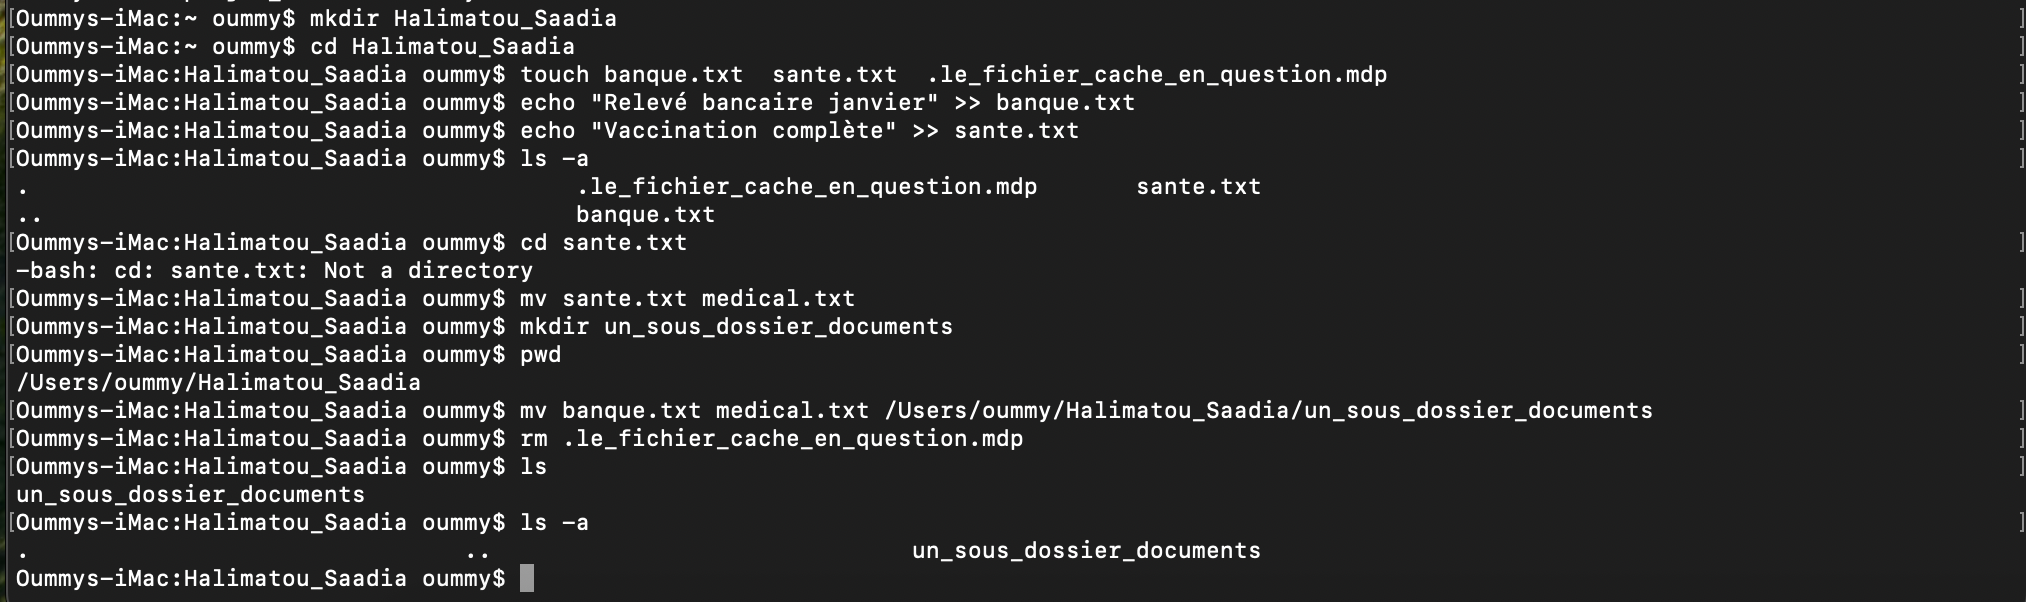
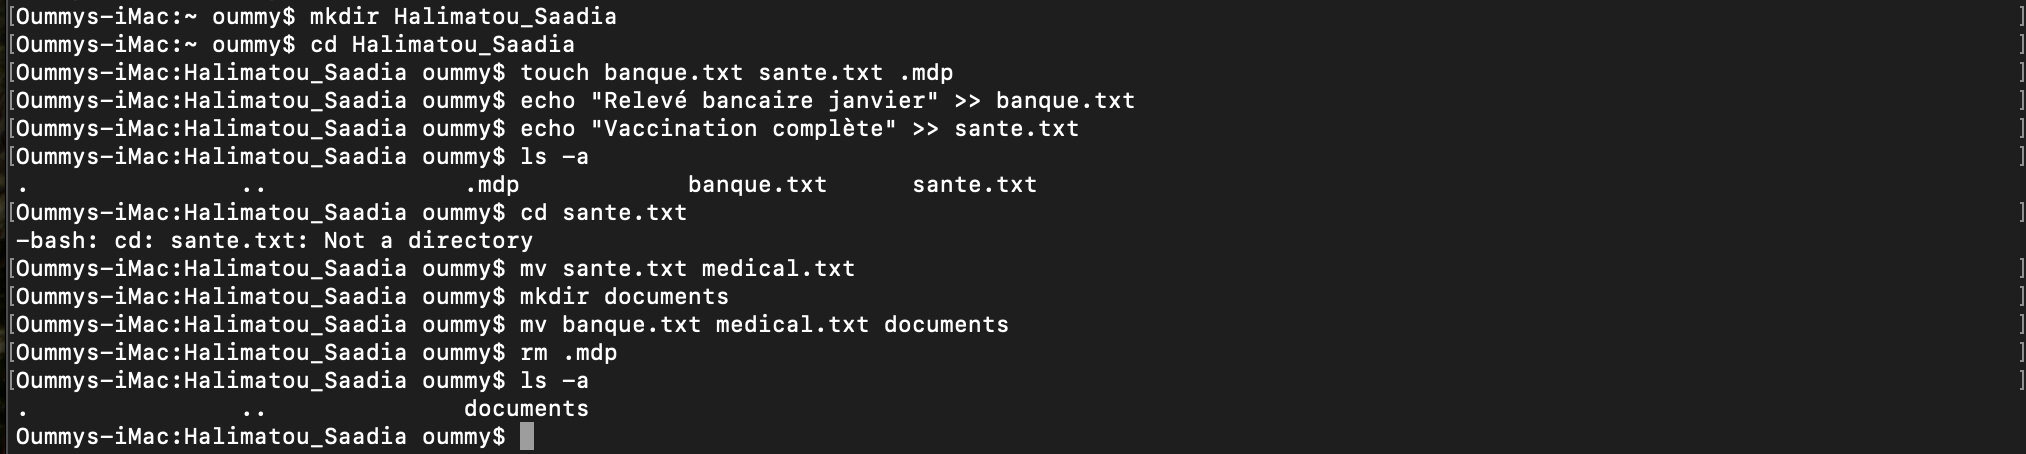
correction sur les evaluation

diff --git a/solutions/exercice6_correction.md b/solutions/exercice6_correction.md
@@ -8,7 +8,7 @@ Syntaxe: ```mkdir nom_du_dossier```
 ``` cd ``` : Pour Aller d'un repertoire à un autre, je l'ai utilisé pour aller de mon repertoir personnel au dossier **Halimatou_Saadia**.
 Syntaxe: ```cd nom_du_repertoir```
 
-```touch``` : Pour créer un ficher, je l'ai utilisé pour créer le fichier texte **banque.txt** **sante.txt** et le ficher caché **.le_fichier_caché_en_question.mdp**.
+```touch``` : Pour créer un ficher, je l'ai utilisé pour créer le fichier texte **banque.txt** **sante.txt** et le ficher caché **.mdp**.
 Syntaxe: ```touch nom_du_fichier```
 
 ```echo``` : Pour ajouter du texte dans un fichier
@@ -17,11 +17,11 @@ syntaxe:
 
 ```echo "texte_à_ajouter" >> nom_du_fihier_destinataire```
 
-```ls -a``` : Pour lister le contenu  d'un dossier ainsi que les fichiers cachés, je l'ai utilisé pour vérifier le fichier caché **.le_fichier_caché_en_question.mdp**
+```ls -a``` : Pour lister le contenu  d'un dossier ainsi que les fichiers cachés, je l'ai utilisé pour vérifier le fichier caché **.mdp**
 
 Syntaxe: ```ls -a nom_du_dossier```
 
-```mv``` : Pour deplacer/renommer un fichier/dossier, je l'ai utilisé pour renommer le fichier **sante.txt** en **medical.txt** et deplacer le fichier **medical.txt** et **banque.txt** vers **User/oummy/Halimatou_Saadia/un_nouveau_dossier_documents**
+```mv``` : Pour deplacer/renommer un fichier/dossier, je l'ai utilisé pour renommer le fichier **sante.txt** en **medical.txt** et deplacer le fichier **medical.txt** et **banque.txt** vers **User/oummy/Halimatou_Saadia/documents**
 
 Syntaxe: 
 
@@ -30,7 +30,7 @@ Syntaxe:
 | Déplacer  |   ```mv nom_du_fichier  chemin/vers/l'/emplacement```      |  ```mv nom_du_dossier chemin/vers/l'/emplacement```
 | Renommer  | ```mv nom_actuel_du_fichier nouveau_nom_du_fichier```             |  ```mv nom_actuel_du_dossier nouveau_nom_du_dossier```  |
 
-```rm``` : Pour supprimer un fichier/dossier,je l'ai utilisé dans l'exercice pour supprimer le fichier caché **.le_fichier_caché_en_question.mdp**
+```rm``` : Pour supprimer un fichier/dossier,je l'ai utilisé dans l'exercice pour supprimer le fichier caché **.mdp**
 
 Pour supprimer un dossier il faut ajouter l'option ```-r```(récursif) afin d'indiquer à la commande rm de supprimer le dossier ainsi que tout son contenu.
 
@@ -42,4 +42,4 @@ Supprimer un dossier: ```rm -r nom_du_dossier```
 
 ## Capture d'écran de l'exercice
 
-![la capture de l'esxercice](Capture_exercice6.png)
+![la capture de l'esxercice](capture_exercice6.png)

diff --git a/solutions/exercice5_correction.md b/solutions/exercice5_correction.md
@@ -40,4 +40,4 @@ Supprimer un dossier: ```rm -r nom_du_dossier```
 
 ## Capture d'écran de l'exercice
 
-![la capture de l'esxercice](Capture_exercice5.png)
+![la capture de l'esxercice](capture_exercice5.png)
